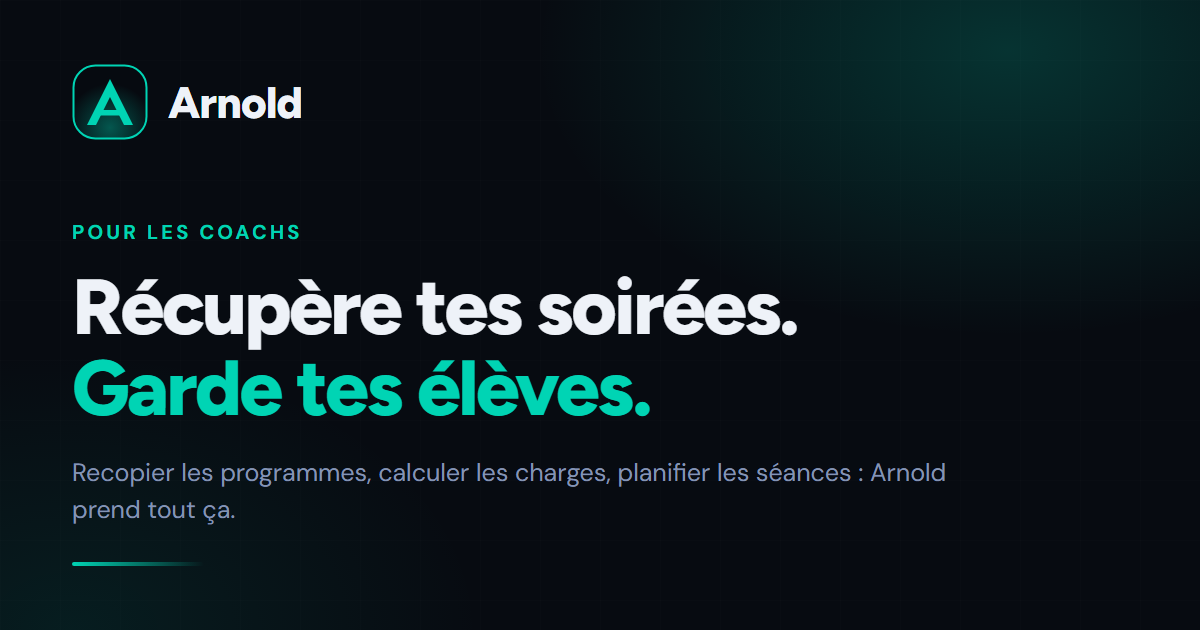
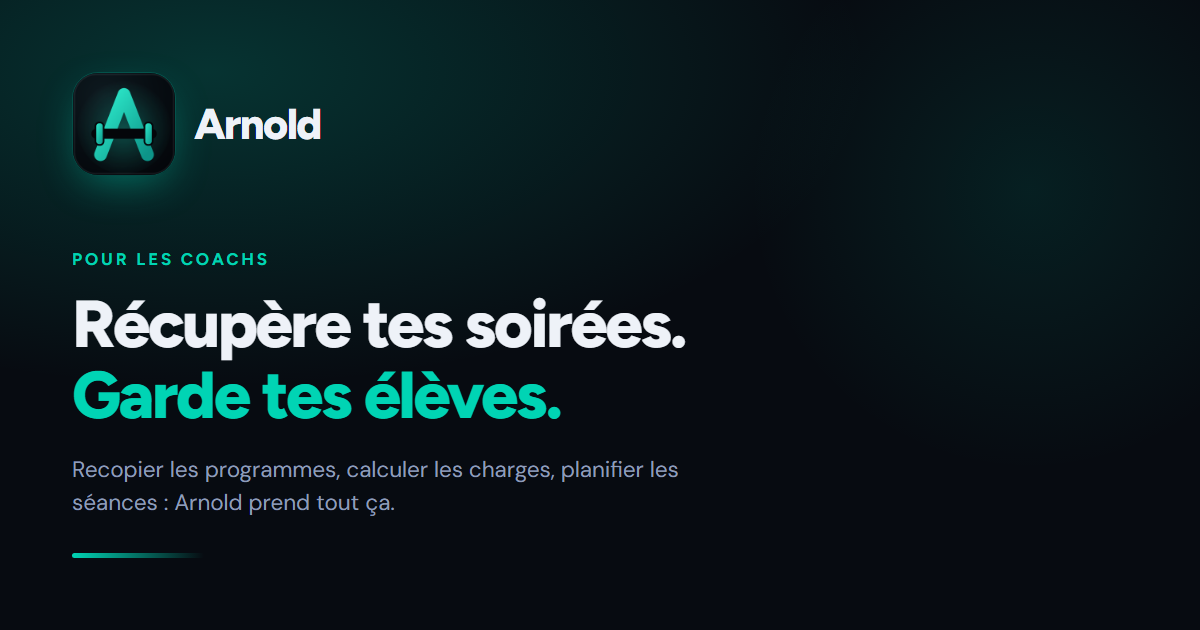
site: la vraie icone de l'app partout, vignettes de partage refaites
Les deux vignettes og-coach / og-eleve portaient l'ANCIEN logo (un A en
contour fin), et la page d'accueil affichait un carre teal dessine en CSS
en guise de marque. Le site ne montrait donc nulle part l'icone reelle de
l'application - le A dont la barre est un haltere.

- icon.png / icon-180.png / icon-64.png : l'icone de l'app
  (arnold-mobile/assets/images/icon.png), redimensionnee depuis cette
  source unique pour eviter deux dessins differents sur le site.
- Favicon + apple-touch-icon + theme-color sur les TROIS pages, qui n'en
  avaient aucun.
- En-tete de la page d'accueil : la vraie icone remplace le placeholder CSS.
- og-accueil.png : nouvelle vignette pour la racine.
- og-coach.png / og-eleve.png : refaites avec l'icone actuelle, textes
  inchanges. Meme nom de fichier, donc les apercus de partage des liens
  deja publies se corrigent tout seuls.

diff --git a/eleve/index.html b/eleve/index.html
@@ -4,6 +4,10 @@
 <meta charset="utf-8">
 <meta name="viewport" content="width=device-width, initial-scale=1">
 <!-- noindex retire le 2026-09-03 : le site doit etre lisible par les robots. Ne pas le remettre. -->
+<link rel="icon" type="image/png" sizes="64x64" href="/icon-64.png">
+<link rel="icon" type="image/png" sizes="512x512" href="/icon.png">
+<link rel="apple-touch-icon" sizes="180x180" href="/icon-180.png">
+<meta name="theme-color" content="#070B11">
 <title>Arnold — l'app de ton coach</title>
 <style>
[1 lines of base64/hex data omitted]

diff --git a/coach/index.html b/coach/index.html
@@ -4,6 +4,10 @@
 <meta charset="utf-8">
 <meta name="viewport" content="width=device-width, initial-scale=1">
 <!-- noindex retire le 2026-09-03 : le site doit etre lisible par les robots. Ne pas le remettre. -->
+<link rel="icon" type="image/png" sizes="64x64" href="/icon-64.png">
+<link rel="icon" type="image/png" sizes="512x512" href="/icon.png">
+<link rel="apple-touch-icon" sizes="180x180" href="/icon-180.png">
+<meta name="theme-color" content="#070B11">
 <title>Arnold — pour les coachs</title>
 <style>
[1 lines of base64/hex data omitted]

diff --git a/index.html b/index.html
@@ -8,13 +8,18 @@
 <meta name="author" content="CESSIO COACHING">
 <link rel="canonical" href="https://arnoldapp.fr/">
 
+<link rel="icon" type="image/png" sizes="64x64" href="/icon-64.png">
+<link rel="icon" type="image/png" sizes="512x512" href="/icon.png">
+<link rel="apple-touch-icon" sizes="180x180" href="/icon-180.png">
+<meta name="theme-color" content="#070B11">
+
 <meta property="og:type" content="website">
 <meta property="og:site_name" content="Arnold">
 <meta property="og:locale" content="fr_FR">
 <meta property="og:title" content="Arnold — Le bras droit qui te manquait">
 <meta property="og:description" content="L'app des coachs sportifs indépendants. Recopier tes programmes, calculer les charges, planifier les séances, regarder les vidéos avant toi : Arnold prend tout ça. Les programmes, eux, restent les tiens.">
 <meta property="og:url" content="https://arnoldapp.fr/">
-<meta property="og:image" content="https://arnoldapp.fr/og-coach.png">
+<meta property="og:image" content="https://arnoldapp.fr/og-accueil.png">
 <meta property="og:image:width" content="1200">
 <meta property="og:image:height" content="630">
 <meta name="twitter:card" content="summary_large_image">
@@ -60,7 +65,7 @@ strong{color:var(--t1);font-weight:700}
 .top__in{display:flex;align-items:center;justify-content:space-between;gap:16px;height:64px}
 .mark{display:flex;align-items:center;gap:10px;font-family:var(--disp);font-weight:800;font-size:1.18rem;color:var(--t1);letter-spacing:-.03em}
 .mark:hover{text-decoration:none}
-.mark__dot{width:26px;height:26px;border-radius:9px;background:var(--teal);display:grid;place-items:center;color:var(--ink);font-size:.82rem;font-weight:800;box-shadow:0 0 22px var(--teal-glow)}
+.mark img{width:32px;height:32px;border-radius:10px;display:block;border:1px solid rgba(0,212,180,.2);box-shadow:0 4px 16px -4px var(--teal-glow)}
 .top nav{display:flex;gap:26px;font-size:.94rem}
 .top nav a{color:var(--t2)}
 .top nav a:hover{color:var(--t1);text-decoration:none}
@@ -205,7 +210,7 @@ footer p{margin:0 0 .5em}
 
 <header class="top">
   <div class="wrap top__in">
-    <a class="mark" href="/"><span class="mark__dot">A</span>Arnold</a>
+    <a class="mark" href="/"><img src="/icon-64.png" width="32" height="32" alt="Icône de l'application Arnold : un A dont la barre est un haltère">Arnold</a>
     <nav>
       <a href="#produit">Le produit</a>
       <a href="#eleve">Côté élève</a>
@@ -501,6 +506,7 @@ footer p{margin:0 0 .5em}
       "name":"CESSIO COACHING",
       "alternateName":"Arnold",
       "url":"https://arnoldapp.fr/",
+      "logo":"https://arnoldapp.fr/icon.png",
       "email":"support@arnoldapp.fr",
       "slogan":"Le bras droit qui te manquait.",
       "description":"Éditeur d'Arnold, l'application des coachs sportifs indépendants.",
@@ -516,7 +522,8 @@ footer p{margin:0 0 .5em}
       "operatingSystem":"iOS, Android",
       "inLanguage":"fr-FR",
       "url":"https://arnoldapp.fr/",
-      "image":"https://arnoldapp.fr/og-coach.png",
+      "image":"https://arnoldapp.fr/og-accueil.png",
+      "screenshot":"https://arnoldapp.fr/og-accueil.png",
       "publisher":{"@id":"https://arnoldapp.fr/#org"},
       "slogan":"Le bras droit qui te manquait.",
       "description":"Arnold est l'application des coachs sportifs indépendants : construction de programmes, revue vidéo assistée par IA validée par le coach, plans nutritionnels, gestion du présentiel et suivi des revenus. Les élèves utilisent l'app gratuitement.",
